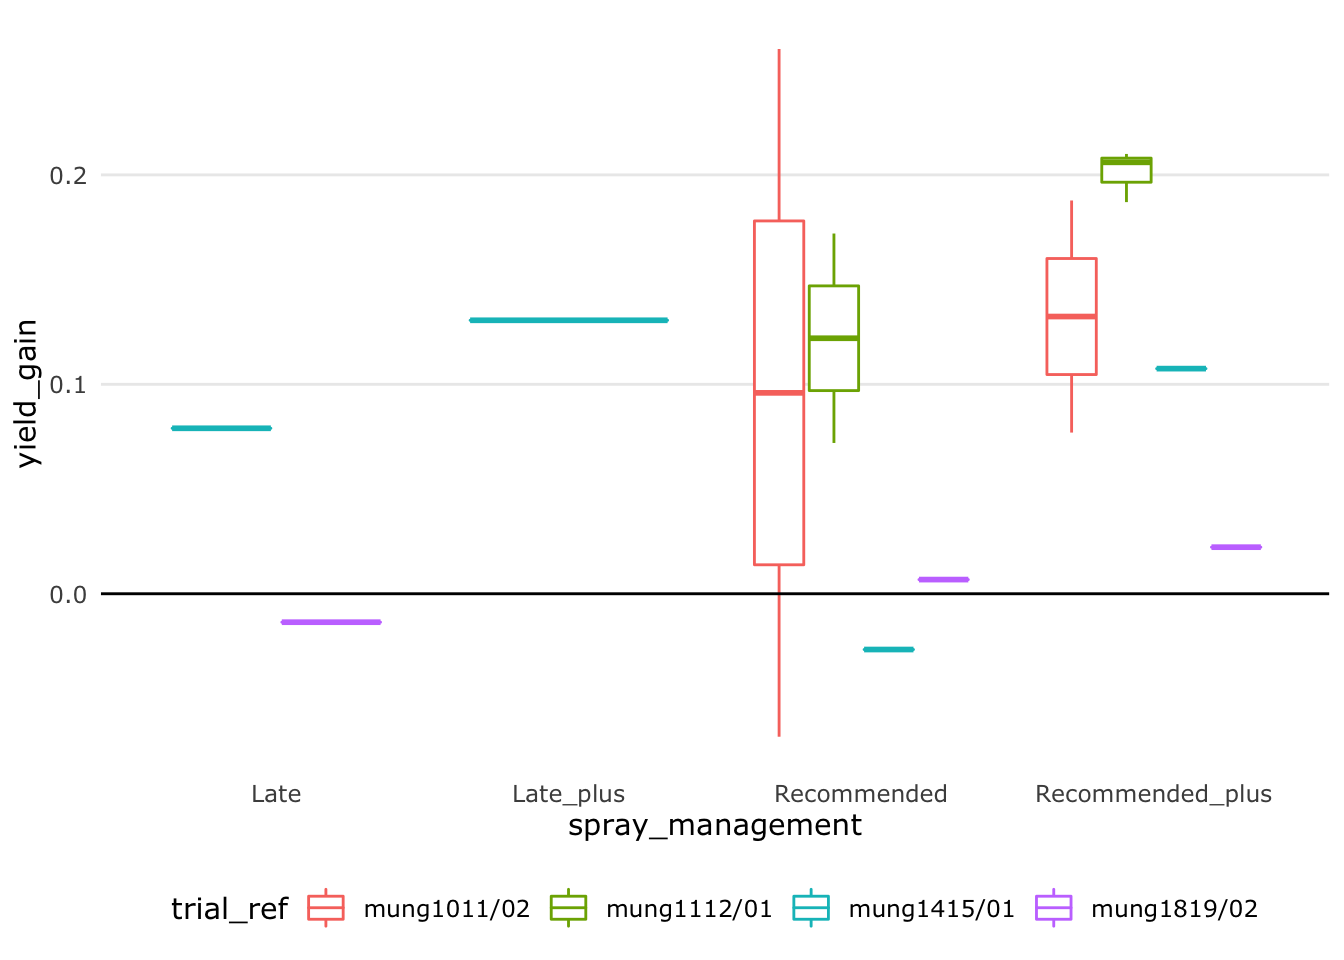
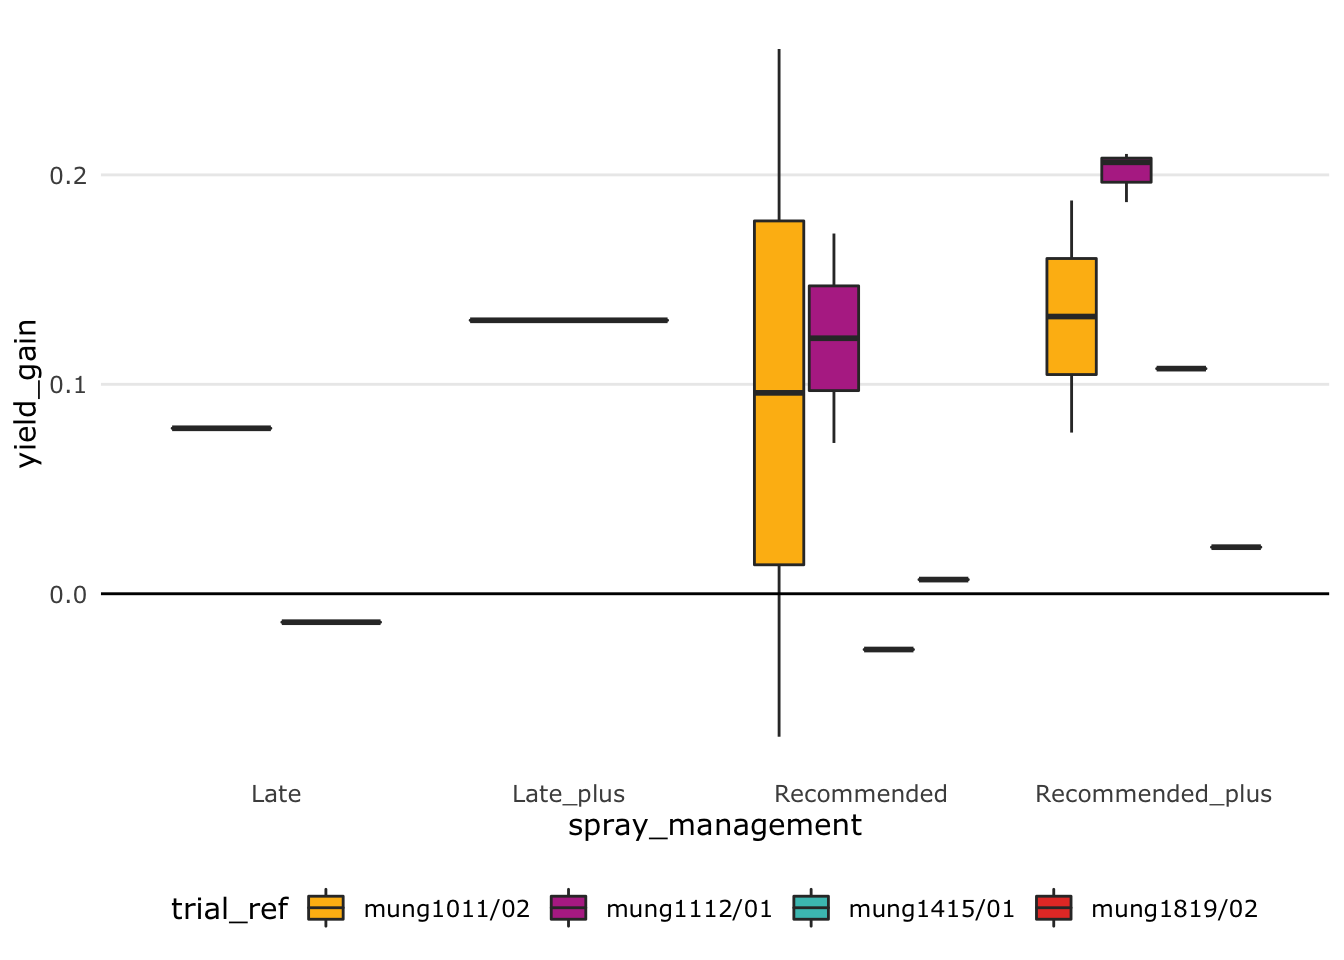
use scale_fill_usq() for boxplots

diff --git a/_book/prepare-data-for-meta-analysis.html b/_book/prepare-data-for-meta-analysis.html
@@ -1846,9 +1846,10 @@ We will only look at trials where powdery mildew set in at flowering which is ap
 <span id="cb37-3"><a href="prepare-data-for-meta-analysis.html#cb37-3" aria-hidden="true"></a><span class="st">   </span><span class="kw">filter</span>(spray_management <span class="op">!=</span><span class="st"> &quot;control&quot;</span> <span class="op">&amp;</span></span>
 <span id="cb37-4"><a href="prepare-data-for-meta-analysis.html#cb37-4" aria-hidden="true"></a><span class="st">             </span>trial_ref <span class="op">!=</span><span class="st"> &quot;AM1304&quot;</span>) <span class="op">%&gt;%</span></span>
 <span id="cb37-5"><a href="prepare-data-for-meta-analysis.html#cb37-5" aria-hidden="true"></a><span class="st">   </span><span class="kw">group_by</span>(trial_ref, spray_management) <span class="op">%&gt;%</span></span>
-<span id="cb37-6"><a href="prepare-data-for-meta-analysis.html#cb37-6" aria-hidden="true"></a><span class="st">   </span><span class="kw">ggplot</span>(<span class="kw">aes</span>(<span class="dt">x =</span> spray_management, <span class="dt">y =</span> yield_gain, <span class="dt">colour =</span> trial_ref)) <span class="op">+</span></span>
+<span id="cb37-6"><a href="prepare-data-for-meta-analysis.html#cb37-6" aria-hidden="true"></a><span class="st">   </span><span class="kw">ggplot</span>(<span class="kw">aes</span>(<span class="dt">x =</span> spray_management, <span class="dt">y =</span> yield_gain, <span class="dt">fill =</span> trial_ref)) <span class="op">+</span></span>
 <span id="cb37-7"><a href="prepare-data-for-meta-analysis.html#cb37-7" aria-hidden="true"></a><span class="st">   </span><span class="kw">geom_boxplot</span>() <span class="op">+</span></span>
-<span id="cb37-8"><a href="prepare-data-for-meta-analysis.html#cb37-8" aria-hidden="true"></a><span class="st">   </span><span class="kw">geom_hline</span>(<span class="dt">yintercept =</span> <span class="dv">0</span>)</span></code></pre></div>
+<span id="cb37-8"><a href="prepare-data-for-meta-analysis.html#cb37-8" aria-hidden="true"></a><span class="st">   </span><span class="kw">scale_fill_usq</span>() <span class="op">+</span></span>
+<span id="cb37-9"><a href="prepare-data-for-meta-analysis.html#cb37-9" aria-hidden="true"></a><span class="st">   </span><span class="kw">geom_hline</span>(<span class="dt">yintercept =</span> <span class="dv">0</span>)</span></code></pre></div>
 <p><img src="_main_files/figure-html/ageBoxPlot-1.png" width="672" /></p>
 <p>We can see in these experiments five experiments there is clearly no benefit to applying a second fungicide application.</p>
 <p>For completeness let’s test this with powdery mildew infection commencing 40 - 60 days after planting, instead of greater than 60.</p>
@@ -1857,9 +1858,10 @@ We will only look at trials where powdery mildew set in at flowering which is ap
 <span id="cb38-3"><a href="prepare-data-for-meta-analysis.html#cb38-3" aria-hidden="true"></a><span class="st">             </span>days2PM <span class="op">&gt;=</span><span class="st"> </span><span class="dv">40</span>) <span class="op">%&gt;%</span></span>
 <span id="cb38-4"><a href="prepare-data-for-meta-analysis.html#cb38-4" aria-hidden="true"></a><span class="st">   </span><span class="kw">filter</span>(spray_management <span class="op">!=</span><span class="st"> &quot;control&quot;</span>) <span class="op">%&gt;%</span></span>
 <span id="cb38-5"><a href="prepare-data-for-meta-analysis.html#cb38-5" aria-hidden="true"></a><span class="st">   </span><span class="kw">group_by</span>(trial_ref, spray_management) <span class="op">%&gt;%</span></span>
-<span id="cb38-6"><a href="prepare-data-for-meta-analysis.html#cb38-6" aria-hidden="true"></a><span class="st">   </span><span class="kw">ggplot</span>(<span class="kw">aes</span>(<span class="dt">x =</span> spray_management, <span class="dt">y =</span> yield_gain, <span class="dt">colour =</span> trial_ref)) <span class="op">+</span></span>
+<span id="cb38-6"><a href="prepare-data-for-meta-analysis.html#cb38-6" aria-hidden="true"></a><span class="st">   </span><span class="kw">ggplot</span>(<span class="kw">aes</span>(<span class="dt">x =</span> spray_management, <span class="dt">y =</span> yield_gain, <span class="dt">fill =</span> trial_ref)) <span class="op">+</span></span>
 <span id="cb38-7"><a href="prepare-data-for-meta-analysis.html#cb38-7" aria-hidden="true"></a><span class="st">   </span><span class="kw">geom_boxplot</span>() <span class="op">+</span></span>
-<span id="cb38-8"><a href="prepare-data-for-meta-analysis.html#cb38-8" aria-hidden="true"></a><span class="st">   </span><span class="kw">geom_hline</span>(<span class="dt">yintercept =</span> <span class="dv">0</span>)</span></code></pre></div>
+<span id="cb38-8"><a href="prepare-data-for-meta-analysis.html#cb38-8" aria-hidden="true"></a><span class="st">   </span><span class="kw">scale_fill_usq</span>() <span class="op">+</span></span>
+<span id="cb38-9"><a href="prepare-data-for-meta-analysis.html#cb38-9" aria-hidden="true"></a><span class="st">   </span><span class="kw">geom_hline</span>(<span class="dt">yintercept =</span> <span class="dv">0</span>)</span></code></pre></div>
 <p><img src="_main_files/figure-html/PM40_2_59_days-1.png" width="672" /></p>
 <p>We can see here all four experiments benefited, on average, from more than one spray.</p>
 <p>Let’s estimate the age of the crop based on crop maturity observations, we will use the <code>PM_MB_means</code> which include some observations of crop maturity.</p>
@@ -1877,7 +1879,7 @@ We will only look at trials where powdery mildew set in at flowering which is ap
 <span id="cb39-12"><a href="prepare-data-for-meta-analysis.html#cb39-12" aria-hidden="true"></a><span class="st">   </span><span class="kw">apply</span>(dat2, <span class="dv">1</span> , <span class="cf">function</span>(X)</span>
 <span id="cb39-13"><a href="prepare-data-for-meta-analysis.html#cb39-13" aria-hidden="true"></a>      <span class="op">!</span><span class="st"> </span><span class="kw">all</span>(<span class="kw">is.na</span>(X[<span class="kw">c</span>(<span class="st">&quot;flower&quot;</span>, <span class="st">&quot;pod&quot;</span>, <span class="st">&quot;late_pod&quot;</span>)])))</span>
 <span id="cb39-14"><a href="prepare-data-for-meta-analysis.html#cb39-14" aria-hidden="true"></a></span>
-<span id="cb39-15"><a href="prepare-data-for-meta-analysis.html#cb39-15" aria-hidden="true"></a>dat2[index1, ]</span></code></pre></div>
+<span id="cb39-15"><a href="prepare-data-for-meta-analysis.html#cb39-15" aria-hidden="true"></a>dat2[index1,]</span></code></pre></div>
 <pre><code>##       location year  flower     pod late_pod
 ## 1       Goolhi 2013 71 days 85 days  NA days
 ## 2       Premer 2013 62 days NA days  NA days
